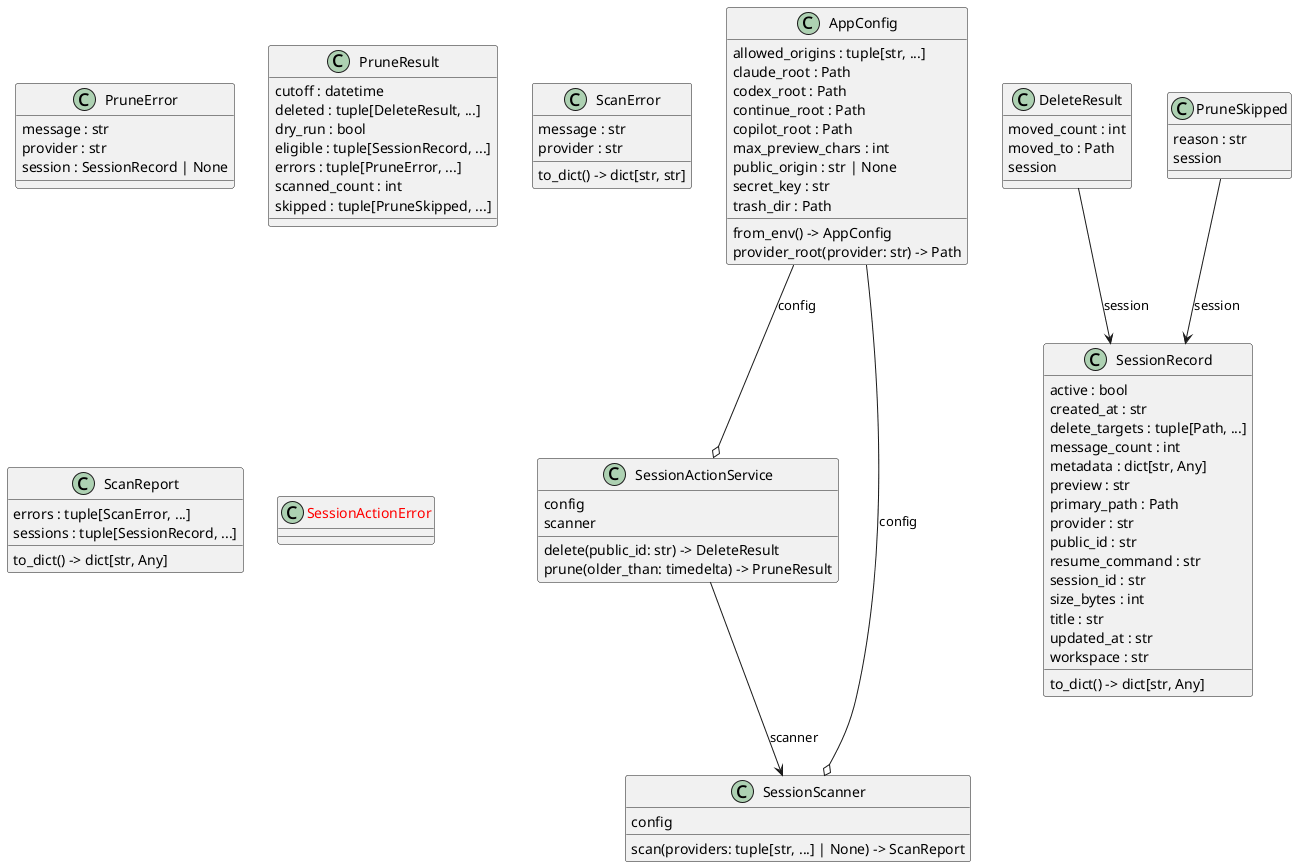
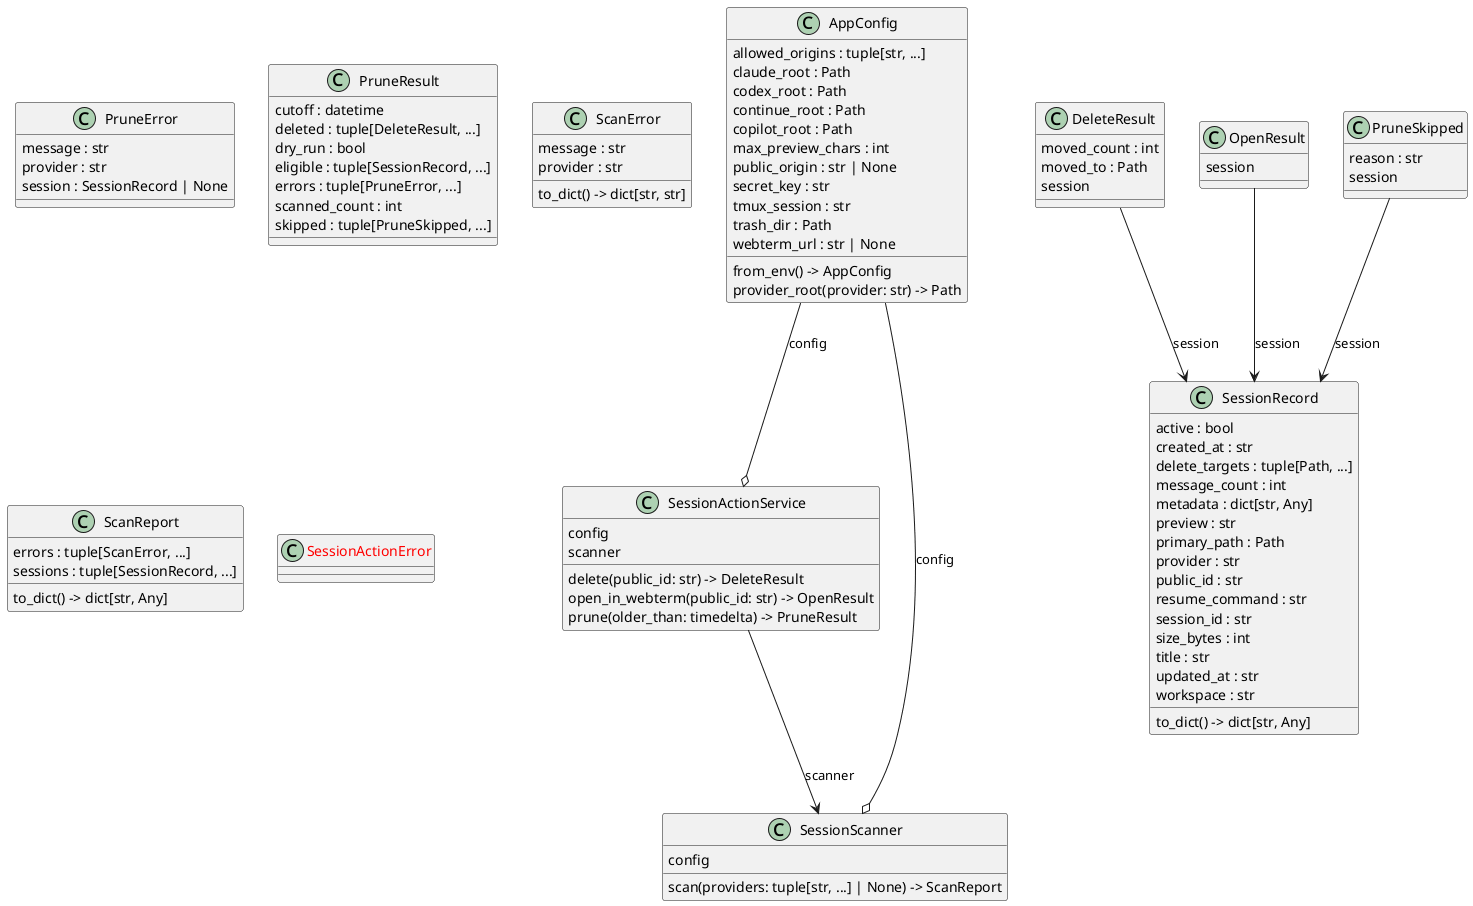
feat(actions): add session delete and config extension with UI updates
Adds src/session_control/actions.py with delete-to-trash actions,
extends config.py with new settings, updates detail.html and index.html
with delete controls, and wires web.py routes. Updates env example and
regenerates class diagrams.

diff --git a/src/session_control/templates/detail.html b/src/session_control/templates/detail.html
@@ -63,10 +63,16 @@
         </ul>
       </section>
 
-      <form class="delete-row" method="post" action="{{ url_for('delete_session', public_id=session.public_id) }}">
-        <input type="hidden" name="csrf_token" value="{{ csrf_token }}">
-        <button class="button danger" type="submit" {% if session.active %}disabled{% endif %}>Delete Session</button>
-      </form>
+      <div class="delete-row" style="display:flex;gap:8px;align-items:center;">
+        <form method="post" action="{{ url_for('open_session', public_id=session.public_id) }}">
+          <input type="hidden" name="csrf_token" value="{{ csrf_token }}">
+          <button class="button primary" type="submit">Open in Web Terminal</button>
+        </form>
+        <form method="post" action="{{ url_for('delete_session', public_id=session.public_id) }}">
+          <input type="hidden" name="csrf_token" value="{{ csrf_token }}">
+          <button class="button danger" type="submit" {% if session.active %}disabled{% endif %}>Delete Session</button>
+        </form>
+      </div>
     </main>
   </body>
 </html>

diff --git a/src/session_control/templates/index.html b/src/session_control/templates/index.html
@@ -75,6 +75,10 @@
               <code class="command">{{ item.resume_command }}</code>
             </div>
             <div class="actions">
+              <form method="post" action="{{ url_for('open_session', public_id=item.public_id) }}">
+                <input type="hidden" name="csrf_token" value="{{ csrf_token }}">
+                <button class="button primary" type="submit">Open</button>
+              </form>
               <button class="button copy" type="button" data-copy="{{ item.resume_command }}">Copy</button>
               <a class="button ghost" href="{{ url_for('detail', public_id=item.public_id) }}">Review</a>
               <form method="post" action="{{ url_for('delete_session', public_id=item.public_id) }}">

diff --git a/src/session_control/actions.py b/src/session_control/actions.py
@@ -4,6 +4,7 @@ from __future__ import annotations
 
 import json
 import shutil
+import subprocess
 from dataclasses import dataclass
 from datetime import datetime, timedelta, timezone
 from pathlib import Path
@@ -15,6 +16,11 @@ from session_control.scanner import SessionScanner
 
 class SessionActionError(RuntimeError):
     """Raised when a requested session action cannot be completed."""
+
+
+@dataclass(frozen=True)
+class OpenResult:
+    session: SessionRecord
 
 
 @dataclass(frozen=True)
@@ -52,6 +58,26 @@ class SessionActionService:
     def __init__(self, config: AppConfig, scanner: SessionScanner | None = None):
         self.config = config
         self.scanner = scanner or SessionScanner(config)
+
+    def open_in_webterm(self, public_id: str) -> OpenResult:
+        session = self._find(public_id)
+        window_name = session.title[:20].strip() or session.session_id[:12]
+        result = subprocess.run(
+            [
+                "tmux",
+                "new-window",
+                "-t",
+                self.config.tmux_session,
+                "-n",
+                window_name,
+                session.resume_command,
+            ],
+            capture_output=True,
+        )
+        if result.returncode != 0:
+            err = result.stderr.decode(errors="replace").strip()
+            raise SessionActionError(f"Could not open tmux window: {err}")
+        return OpenResult(session=session)
 
     def delete(self, public_id: str) -> DeleteResult:
         session = self._find(public_id)

diff --git a/src/session_control/web.py b/src/session_control/web.py
@@ -66,6 +66,7 @@ def create_app(
             selected_provider=selected_provider,
             query=query,
             csrf_token=_csrf_token(),
+            webterm_url=app_config.webterm_url,
         )
 
     @app.get("/sessions/<public_id>")
@@ -78,6 +79,7 @@ def create_app(
             "detail.html",
             session=session_record,
             csrf_token=_csrf_token(),
+            webterm_url=app_config.webterm_url,
         )
 
     @app.get("/api/sessions")
@@ -88,6 +90,18 @@ def create_app(
     @app.get("/healthz")
     def healthz():
         return jsonify({"ok": True})
+
+    @app.post("/sessions/<public_id>/open")
+    def open_session(public_id: str):
+        if not app_config.webterm_url:
+            flash("Web terminal URL is not configured (SESSION_CONTROL_WEBTERM_URL).", "error")
+            return redirect(request.referrer or url_for("index"))
+        try:
+            app_actions.open_in_webterm(public_id)
+        except SessionActionError as exc:
+            flash(str(exc), "error")
+            return redirect(request.referrer or url_for("index"))
+        return redirect(app_config.webterm_url)
 
     @app.post("/sessions/<public_id>/delete")
     def delete_session(public_id: str):

diff --git a/src/session_control/config.py b/src/session_control/config.py
@@ -19,6 +19,8 @@ class AppConfig:
     public_origin: str | None = None
     allowed_origins: tuple[str, ...] = ()
     max_preview_chars: int = 900
+    webterm_url: str | None = None
+    tmux_session: str = "pit-box"
 
     @classmethod
     def from_env(cls) -> AppConfig:
@@ -36,6 +38,8 @@ class AppConfig:
             public_origin=os.environ.get("SESSION_CONTROL_PUBLIC_ORIGIN") or None,
             allowed_origins=_split_csv(os.environ.get("SESSION_CONTROL_ALLOWED_ORIGINS", "")),
             max_preview_chars=int(os.environ.get("SESSION_CONTROL_MAX_PREVIEW_CHARS", "900")),
+            webterm_url=os.environ.get("SESSION_CONTROL_WEBTERM_URL") or None,
+            tmux_session=os.environ.get("SESSION_CONTROL_TMUX_SESSION") or "pit-box",
         )
 
     def provider_root(self, provider: str) -> Path: